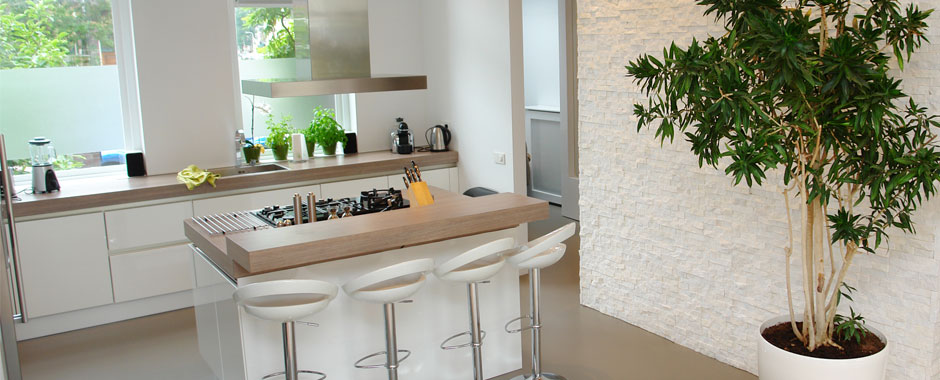
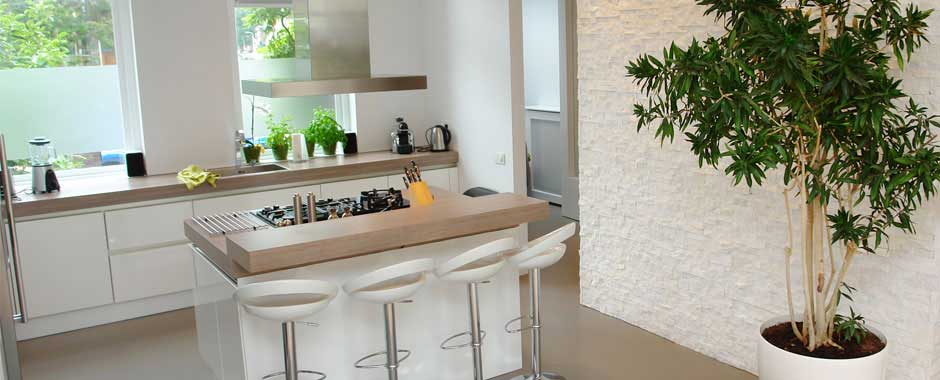
optimized images on the site based on google analytics page load speed

diff --git a/landing_pages/natural-stone-veneer-solutions.html b/landing_pages/natural-stone-veneer-solutions.html
@@ -194,7 +194,7 @@ sitemap: false
                   <div class="view-content">
                     <div class="views-row views-row-1 views-row-odd views-row-first">
                       <div class="views-field-field-slide-images-fid">
-                        <span class="field-content"><img  class="imagefield imagefield-field_slide_images" width="633" height="382" title="Norstone Charcoal Modern Fireplace" alt="Norstone Charcoal Modern Fireplace" src="/assets/images/unsorted/nsvs_slide_fireplace.png" /></span>
+                        <span class="field-content"><img  class="imagefield imagefield-field_slide_images" width="633" height="382" title="Norstone Charcoal Modern Fireplace" alt="Norstone Charcoal Modern Fireplace" src="/assets/images/unsorted/nsvs_slide_fireplace.jpg" /></span>
                       </div>
                     </div>
                     <div class="views-row views-row-2 views-row-even">
@@ -204,17 +204,17 @@ sitemap: false
                     </div>
                     <div class="views-row views-row-2 views-row-even">
                       <div class="views-field-field-slide-images-fid">
-                        <span class="field-content"><img  class="imagefield imagefield-field_slide_images" width="633" height="382" title="Denver Colorado Stacked Stone Architects Office" alt="Denver Colorado Stacked Stone Architects Office" src="/assets/images/unsorted/nsvs_slide_office.png" /></span>
+                        <span class="field-content"><img  class="imagefield imagefield-field_slide_images" width="633" height="382" title="Denver Colorado Stacked Stone Architects Office" alt="Denver Colorado Stacked Stone Architects Office" src="/assets/images/unsorted/nsvs_slide_office.jpg" /></span>
                       </div>
                     </div>
                     <div class="views-row views-row-3 views-row-odd">
                       <div class="views-field-field-slide-images-fid">
-                        <span class="field-content"><img  class="imagefield imagefield-field_slide_images" width="633" height="382" title="Norstone White Rock Panels Kitchen" alt="Norstone White Rock Panels Kitchen" src="/assets/images/unsorted/nsvs_slide_kitchen.png" /></span>
+                        <span class="field-content"><img  class="imagefield imagefield-field_slide_images" width="633" height="382" title="Norstone White Rock Panels Kitchen" alt="Norstone White Rock Panels Kitchen" src="/assets/images/unsorted/nsvs_slide_kitchen.jpg" /></span>
                       </div>
                     </div>
                     <div class="views-row views-row-4 views-row-even">
                       <div class="views-field-field-slide-images-fid">
-                        <span class="field-content"><img  class="imagefield imagefield-field_slide_images" width="633" height="382" title="Norstone Ochre Waterfall" alt="Norstone Ochre Waterfall" src="/assets/images/unsorted/nsvs_slide_waterfall.png" /></span>
+                        <span class="field-content"><img  class="imagefield imagefield-field_slide_images" width="633" height="382" title="Norstone Ochre Waterfall" alt="Norstone Ochre Waterfall" src="/assets/images/unsorted/nsvs_slide_waterfall.jpg" /></span>
                       </div>
                     </div>
                     <div class="views-row views-row-5 views-row-odd">
